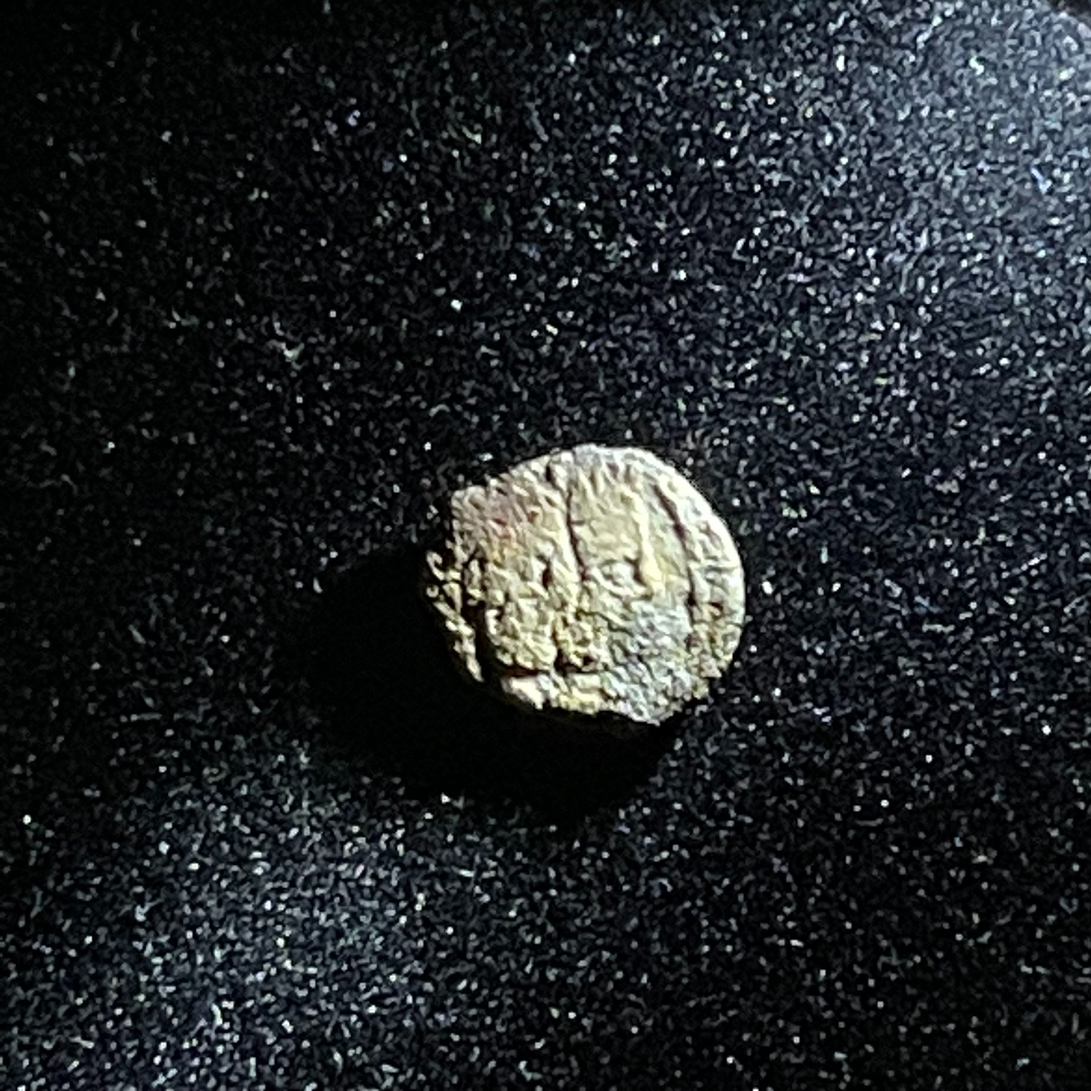
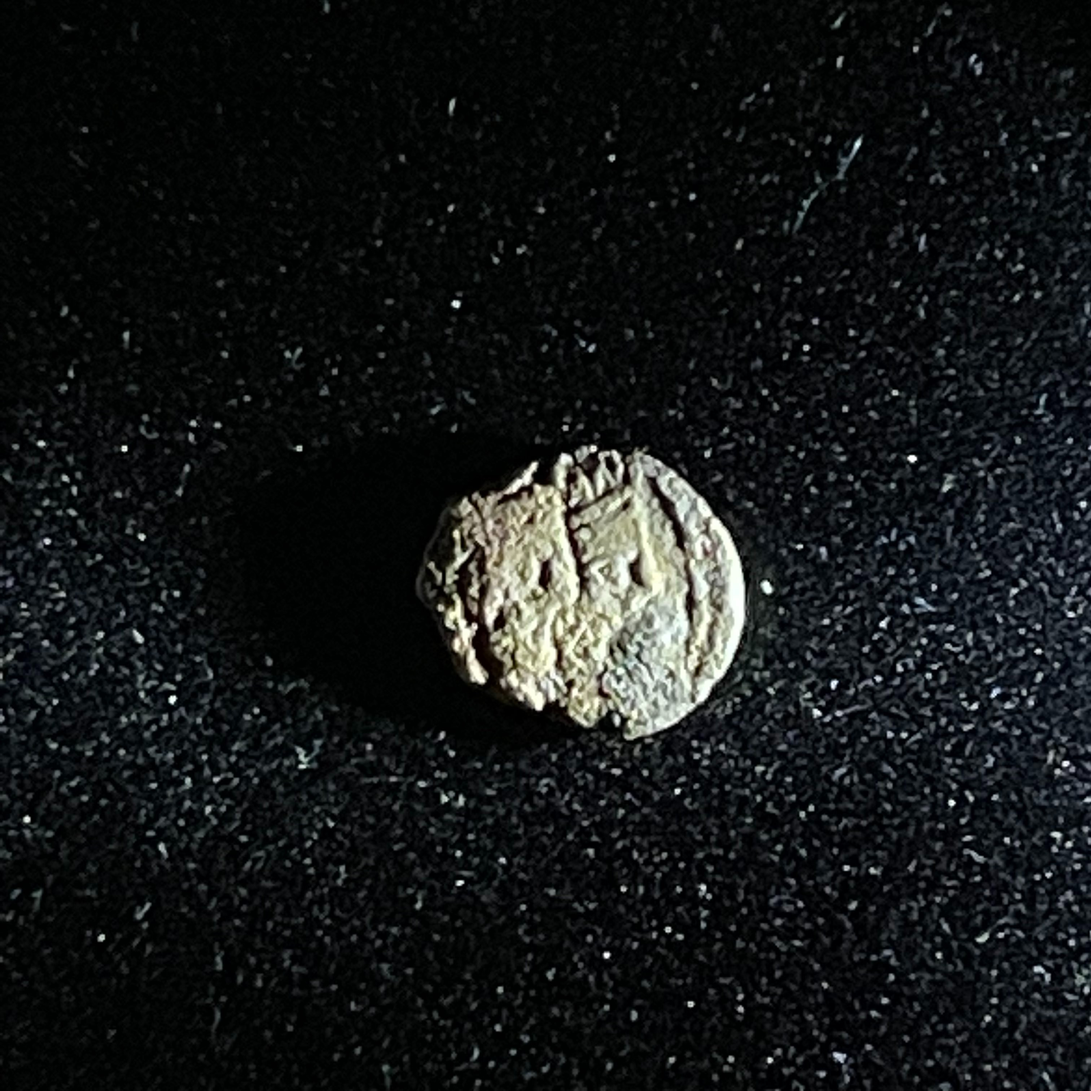
update coins, add instruction for interaction

diff --git a/mysite/coins/templates/coins/coin_data.html b/mysite/coins/templates/coins/coin_data.html
@@ -75,6 +75,7 @@
                     <button type="button" id="coin_view_button" class="btn btn-outline-secondary btn-light p-2"><img src="https://upload.wikimedia.org/wikipedia/commons/thumb/8/83/OOjs_UI_icon_sun-rtl.svg/240px-OOjs_UI_icon_sun-rtl.svg.png" width="40" height="auto"/></button>
                     <p id = "image-toggle" class="fs-2 text-light mx-4">Toggle Interactive Obverse</p>
                 </div>
+                <p class="fs-4 text-light mx-4">In interactive view, click anywhere on the image to change the lighting</p>
             </div>
         </div>
     </div>
@@ -99,6 +100,6 @@
 
     <script src="https://cdn.jsdelivr.net/npm/bootstrap@5.3.0-alpha3/dist/js/bootstrap.bundle.min.js" integrity="sha384-ENjdO4Dr2bkBIFxQpeoTz1HIcje39Wm4jDKdf19U8gI4ddQ3GYNS7NTKfAdVQSZe" crossorigin="anonymous"></script>
     <script src="https://code.jquery.com/jquery-3.6.0.slim.js" integrity="sha256-HwWONEZrpuoh951cQD1ov2HUK5zA5DwJ1DNUXaM6FsY=" crossorigin="anonymous"></script>
-    <script type="text/javascript" src="../../static/coins/coin_data_new.js"></script>
+    <script type="text/javascript" src="../../static/coins/coin_lighting.js"></script>
 </body>
 </html>
